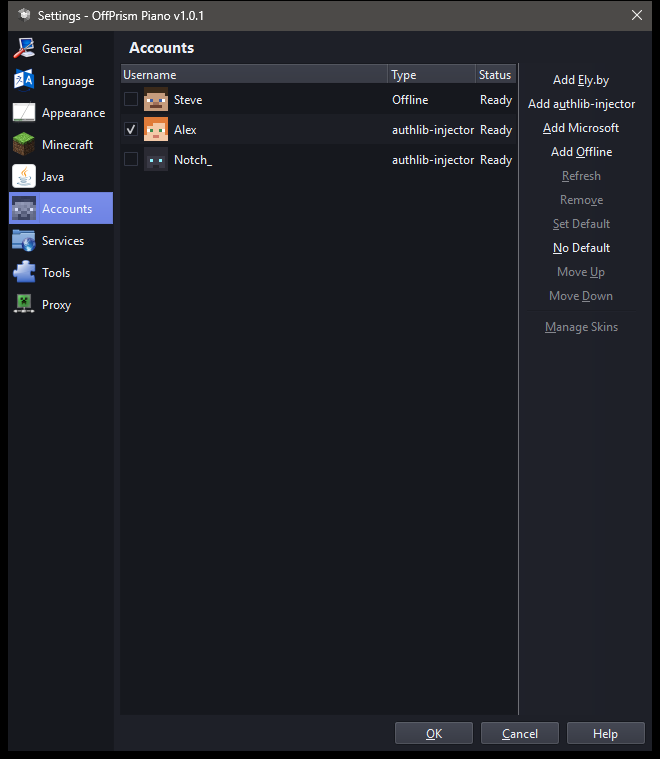
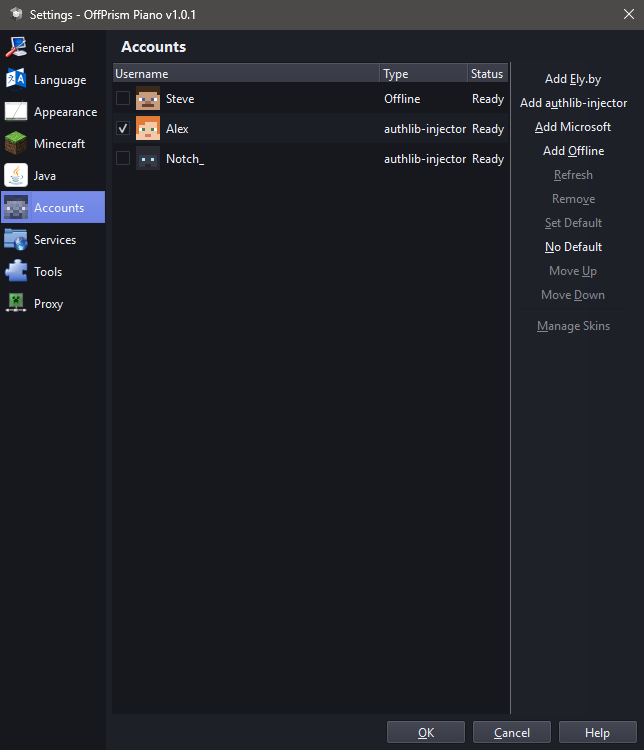
Trim black window margins from launcher screenshots

Changed region(s): [[0.0, 0.0, 1.0, 1.0]]

diff --git a/ru/index.html b/ru/index.html
@@ -85,7 +85,7 @@
 
     <div class="showcase">
       <div class="showcase-glow"></div>
-      <div class="frame"><img src="/assets/launcher-ru.png" alt="Главное окно OffPrism со списком сборок" width="1104" height="692"></div>
+      <div class="frame"><img src="/assets/launcher-ru.png" alt="Главное окно OffPrism со списком сборок" width="1104" height="691"></div>
     </div>
   </div>
 </section>
@@ -114,8 +114,8 @@
     </div>
 
     <div class="shots">
-      <img class="shot-main" src="/assets/accounts-ru.png" alt="Страница «Учётные записи» в OffPrism с офлайн- и authlib-injector-аккаунтами" width="660" height="759" loading="lazy">
-      <img class="shot-over" src="/assets/ely-ru.png" alt="Окно добавления аккаунта Ely.by" width="456" height="289" loading="lazy">
+      <img class="shot-main" src="/assets/accounts-ru.png" alt="Страница «Учётные записи» в OffPrism с офлайн- и authlib-injector-аккаунтами" width="644" height="750" loading="lazy">
+      <img class="shot-over" src="/assets/ely-ru.png" alt="Окно добавления аккаунта Ely.by" width="440" height="280" loading="lazy">
     </div>
   </div>
 </section>

diff --git a/src/pages/ru/index.html b/src/pages/ru/index.html
@@ -48,7 +48,7 @@
 
     <div class="showcase">
       <div class="showcase-glow"></div>
-      <div class="frame"><img src="/assets/launcher-ru.png" alt="Главное окно OffPrism со списком сборок" width="1104" height="692"></div>
+      <div class="frame"><img src="/assets/launcher-ru.png" alt="Главное окно OffPrism со списком сборок" width="1104" height="691"></div>
     </div>
   </div>
 </section>
@@ -77,8 +77,8 @@
     </div>
 
     <div class="shots">
-      <img class="shot-main" src="/assets/accounts-ru.png" alt="Страница «Учётные записи» в OffPrism с офлайн- и authlib-injector-аккаунтами" width="660" height="759" loading="lazy">
-      <img class="shot-over" src="/assets/ely-ru.png" alt="Окно добавления аккаунта Ely.by" width="456" height="289" loading="lazy">
+      <img class="shot-main" src="/assets/accounts-ru.png" alt="Страница «Учётные записи» в OffPrism с офлайн- и authlib-injector-аккаунтами" width="644" height="750" loading="lazy">
+      <img class="shot-over" src="/assets/ely-ru.png" alt="Окно добавления аккаунта Ely.by" width="440" height="280" loading="lazy">
     </div>
   </div>
 </section>

diff --git a/index.html b/index.html
@@ -85,7 +85,7 @@
 
     <div class="showcase">
       <div class="showcase-glow"></div>
-      <div class="frame"><img src="/assets/launcher-en.png" alt="The OffPrism main window with a list of instances" width="1104" height="692"></div>
+      <div class="frame"><img src="/assets/launcher-en.png" alt="The OffPrism main window with a list of instances" width="1104" height="691"></div>
     </div>
   </div>
 </section>
@@ -114,8 +114,8 @@
     </div>
 
     <div class="shots">
-      <img class="shot-main" src="/assets/accounts-en.png" alt="The Accounts page in OffPrism with offline and authlib-injector accounts" width="660" height="759" loading="lazy">
-      <img class="shot-over" src="/assets/ely-en.png" alt="The Add Ely.by account dialog" width="456" height="289" loading="lazy">
+      <img class="shot-main" src="/assets/accounts-en.png" alt="The Accounts page in OffPrism with offline and authlib-injector accounts" width="644" height="750" loading="lazy">
+      <img class="shot-over" src="/assets/ely-en.png" alt="The Add Ely.by account dialog" width="440" height="280" loading="lazy">
     </div>
   </div>
 </section>

diff --git a/src/pages/en/index.html b/src/pages/en/index.html
@@ -48,7 +48,7 @@
 
     <div class="showcase">
       <div class="showcase-glow"></div>
-      <div class="frame"><img src="/assets/launcher-en.png" alt="The OffPrism main window with a list of instances" width="1104" height="692"></div>
+      <div class="frame"><img src="/assets/launcher-en.png" alt="The OffPrism main window with a list of instances" width="1104" height="691"></div>
     </div>
   </div>
 </section>
@@ -77,8 +77,8 @@
     </div>
 
     <div class="shots">
-      <img class="shot-main" src="/assets/accounts-en.png" alt="The Accounts page in OffPrism with offline and authlib-injector accounts" width="660" height="759" loading="lazy">
-      <img class="shot-over" src="/assets/ely-en.png" alt="The Add Ely.by account dialog" width="456" height="289" loading="lazy">
+      <img class="shot-main" src="/assets/accounts-en.png" alt="The Accounts page in OffPrism with offline and authlib-injector accounts" width="644" height="750" loading="lazy">
+      <img class="shot-over" src="/assets/ely-en.png" alt="The Add Ely.by account dialog" width="440" height="280" loading="lazy">
     </div>
   </div>
 </section>

diff --git a/assets/style.css b/assets/style.css
@@ -152,7 +152,7 @@ section { padding: 96px 0; position: relative; }
 
 .shots { position: relative; padding: 0 0 70px 0; isolation: isolate; }
 .shots::before { content: ""; position: absolute; left: 15%; right: 5%; top: -30px; height: 70px; background: var(--spectrum); filter: blur(80px); opacity: 0.14; z-index: -1; }
-.shots img { display: block; border-radius: 12px; border: 1px solid var(--line-2); box-shadow: 0 30px 70px -25px rgba(0, 0, 0, 0.95); }
+.shots img { display: block; border-radius: 8px; border: 1px solid var(--line-2); box-shadow: 0 30px 70px -25px rgba(0, 0, 0, 0.95); }
 .shot-main { width: 84%; height: auto; margin-left: auto; }
 .shot-over { position: absolute; left: 0; bottom: 0; width: 58%; height: auto; box-shadow: 0 30px 80px -10px rgba(0, 0, 0, 0.95), 0 0 0 1px rgba(0, 0, 0, 0.6) !important; }
 
